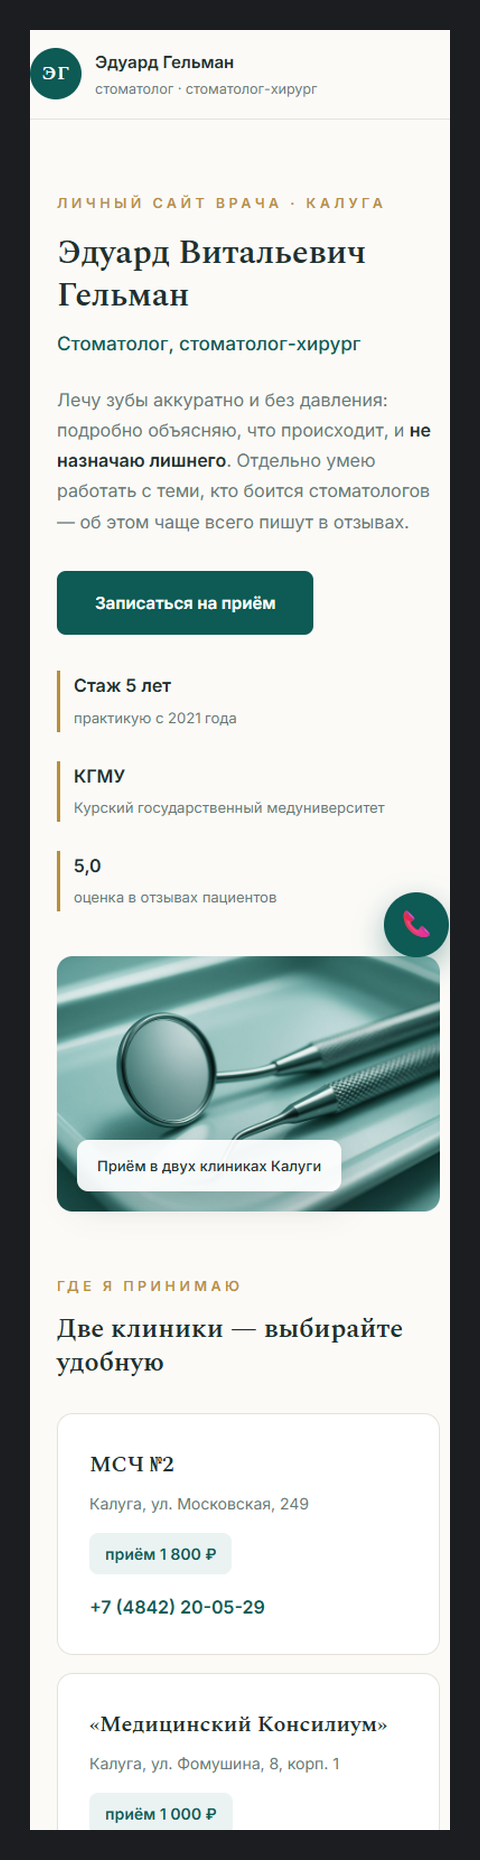
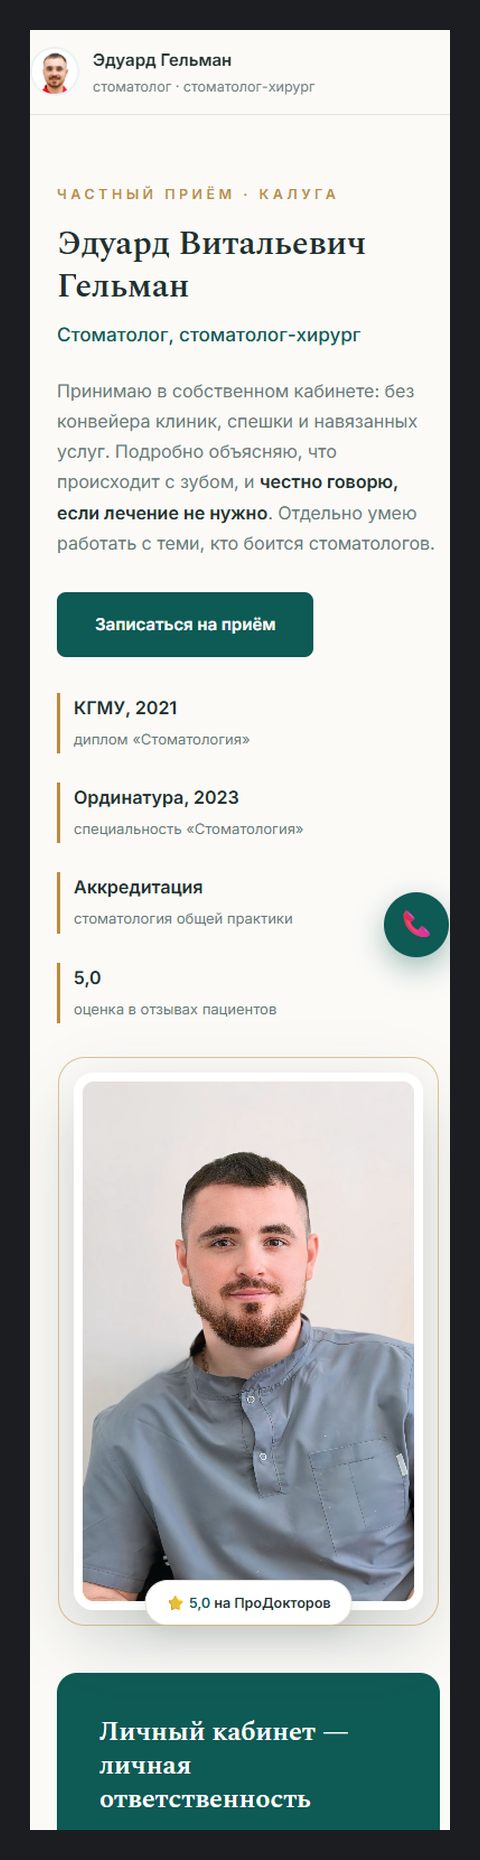
Гельман: реальные фото (ПроДокторов + мсч2.рф), частный кабинет, прайс, образование с номером диплома, номер клиники убран

diff --git a/demos/gelman/index.html b/demos/gelman/index.html
@@ -5,7 +5,7 @@
 <meta name="viewport" content="width=device-width, initial-scale=1.0">
 <meta name="robots" content="noindex, nofollow">
 <title>Эдуард Гельман — стоматолог, стоматолог-хирург · Калуга</title>
-<meta name="description" content="Эдуард Витальевич Гельман — стоматолог, стоматолог-хирург в Калуге. Приём в МСЧ №2 и клинике «Медицинский Консилиум». Запись по телефону.">
+<meta name="description" content="Эдуард Витальевич Гельман — стоматолог, стоматолог-хирург в Калуге. Частный приём, честные цены, работа с тревожными пациентами.">
 <link rel="preconnect" href="https://fonts.googleapis.com">
 <link rel="preconnect" href="https://fonts.gstatic.com" crossorigin>
 <link href="https://fonts.googleapis.com/css2?family=Spectral:ital,wght@0,400;0,500;0,600;1,400&family=Inter:wght@400;500;600&display=swap" rel="stylesheet">
@@ -18,22 +18,21 @@
 html{scroll-behavior:smooth}
 body{font-family:'Inter',system-ui,sans-serif;background:var(--paperw);color:var(--ink);line-height:1.7}
 h1,h2,h3,.serif{font-family:'Spectral',Georgia,serif;line-height:1.25}
-.wrap{max-width:920px;margin:0 auto;padding:0 24px}
+.wrap{max-width:940px;margin:0 auto;padding:0 24px}
 
-header{border-bottom:1px solid var(--hair)}
-.hrow{display:flex;align-items:center;justify-content:space-between;gap:12px;padding:16px 0}
-.mono{width:46px;height:46px;border-radius:50%;background:var(--teald);color:#fff;display:flex;align-items:center;
-  justify-content:center;font-family:'Spectral',serif;font-weight:600;font-size:18px;letter-spacing:.04em}
+header{border-bottom:1px solid var(--hair);position:sticky;top:0;background:rgba(251,250,247,.94);backdrop-filter:blur(8px);z-index:50}
+.hrow{display:flex;align-items:center;justify-content:space-between;gap:12px;padding:14px 0}
+.hleft{display:flex;align-items:center;gap:12px;text-decoration:none;color:var(--ink)}
+.hava{width:44px;height:44px;border-radius:50%;object-fit:cover;border:2px solid var(--teal-l)}
 .hname{font-weight:600;font-size:15px}
 .hname small{display:block;color:var(--muted);font-weight:400;font-size:12.5px}
-.hleft{display:flex;align-items:center;gap:12px;text-decoration:none;color:var(--ink)}
 .htel{color:var(--teald);text-decoration:none;font-weight:600;font-size:14.5px}
 .htel:hover{text-decoration:underline}
 
-/* hero: визитка */
-.hero{padding:64px 0 56px}
-.hero .grid{display:grid;grid-template-columns:1fr;gap:40px;align-items:center}
-@media(min-width:880px){.hero .grid{grid-template-columns:1.1fr .9fr}}
+/* hero с настоящим портретом */
+.hero{padding:60px 0 56px}
+.hero .grid{display:grid;grid-template-columns:1fr;gap:44px;align-items:center}
+@media(min-width:860px){.hero .grid{grid-template-columns:1.15fr .85fr}}
 .hero .k{color:var(--gold);font-size:12.5px;font-weight:600;letter-spacing:.28em;text-transform:uppercase;margin-bottom:16px}
 .hero h1{font-size:clamp(30px,4.6vw,48px);font-weight:600}
 .hero .spec{margin:10px 0 22px;font-size:17px;color:var(--teald);font-weight:500}
@@ -46,50 +45,65 @@ header{border-bottom:1px solid var(--hair)}
 .creds div{border-left:3px solid var(--gold);padding-left:12px}
 .creds b{font-size:16px;display:block}
 .creds span{color:var(--muted);font-size:13px}
-.hero .ph{position:relative}
-.hero .ph img{width:100%;height:auto;display:block;border-radius:14px}
-.hero .ph .tag{position:absolute;left:18px;bottom:18px;background:rgba(255,255,255,.92);border-radius:10px;
-  padding:12px 18px;font-size:13px;font-weight:500;box-shadow:0 10px 30px rgba(32,48,46,.2)}
+.portrait{justify-self:center;position:relative}
+.portrait img{width:min(340px,80vw);height:auto;max-height:480px;object-fit:cover;object-position:top;
+  border-radius:18px;display:block;border:8px solid #fff;box-shadow:0 24px 60px rgba(32,48,46,.22)}
+.portrait::after{content:"";position:absolute;inset:-14px;border:1px solid var(--gold);border-radius:24px;opacity:.5}
+.portrait .pd{position:absolute;left:50%;bottom:-14px;transform:translateX(-50%);background:var(--card);
+  border:1px solid var(--hair);border-radius:999px;padding:9px 18px;font-size:12.5px;font-weight:600;white-space:nowrap;
+  box-shadow:0 8px 22px rgba(32,48,46,.12)}
+.portrait .pd b{color:var(--teald)}
 
-section{padding:64px 0}
+section{padding:60px 0}
 .k2{color:var(--gold);font-size:12.5px;font-weight:600;letter-spacing:.28em;text-transform:uppercase;margin-bottom:12px}
-h2{font-size:clamp(24px,3.4vw,34px);font-weight:600;margin-bottom:30px}
+h2{font-size:clamp(24px,3.4vw,34px);font-weight:600;margin-bottom:28px}
 
-/* два места приёма */
-.places{display:grid;grid-template-columns:1fr;gap:16px}
-@media(min-width:760px){.places{grid-template-columns:1fr 1fr}}
-.place{background:var(--card);border:1px solid var(--hair);border-radius:14px;padding:28px}
-.place .pn{font-family:'Spectral',serif;font-size:20px;font-weight:600;margin-bottom:6px}
-.place .addr{color:var(--muted);font-size:14px;margin-bottom:14px}
-.place .price{display:inline-block;background:var(--teal-l);color:var(--teald);font-weight:600;font-size:14px;
-  border-radius:8px;padding:7px 14px;margin-bottom:16px}
-.place a.pt{display:block;color:var(--teald);text-decoration:none;font-weight:600;font-size:16px}
-.place a.pt:hover{text-decoration:underline}
+/* частный приём */
+.private{background:var(--teald);color:#fff;border-radius:18px;padding:38px;display:grid;
+  grid-template-columns:1fr;gap:24px;align-items:center}
+@media(min-width:820px){.private{grid-template-columns:1.2fr .8fr}}
+.private h2{color:#fff;margin-bottom:10px}
+.private p{color:#B7D3D1;font-size:15px;max-width:52ch}
+.private .right{text-align:center}
+.private .tel{font-family:'Spectral',serif;font-size:clamp(24px,3.8vw,32px);color:#fff;text-decoration:none;font-weight:600}
+.private .tel:hover{text-decoration:underline}
+.private small{display:block;margin-top:10px;color:#8FB5B2;font-size:12.5px}
+
+/* прайс-лист */
+.price-tbl{background:var(--card);border:1px solid var(--hair);border-radius:14px;overflow:hidden}
+.price-tbl table{width:100%;border-collapse:collapse;font-size:15px}
+.price-tbl th{font-family:'Spectral',serif;font-weight:600;text-align:left;padding:16px 24px;background:var(--teal-l);
+  color:var(--teald);font-size:14.5px}
+.price-tbl td{padding:14px 24px;border-top:1px solid var(--hair);vertical-align:top}
+.price-tbl td small{display:block;color:var(--muted);font-size:13px;margin-top:2px}
+.price-tbl td.pr{font-weight:600;white-space:nowrap;text-align:right;color:var(--teald)}
+.price-note{font-size:13px;color:var(--muted);margin-top:14px;max-width:66ch}
+
+/* фото-ряд: кабинет, инструменты, результат */
+.gal{display:grid;grid-template-columns:1fr;gap:14px}
+@media(min-width:760px){.gal{grid-template-columns:1fr 1fr 1fr}}
+.gal figure{position:relative;border-radius:14px;overflow:hidden}
+.gal img{width:100%;height:230px;object-fit:cover;display:block;transition:transform .5s var(--ease)}
+.gal figure:hover img{transform:scale(1.04)}
+.gal figcaption{position:absolute;left:0;right:0;bottom:0;background:linear-gradient(transparent,rgba(14,32,30,.85));
+  color:#fff;font-size:13px;font-weight:500;padding:26px 16px 12px}
 
 /* чем помогаю */
-.helps{display:grid;grid-template-columns:1fr;gap:0;border-top:1px solid var(--hair)}
+.helps{border-top:1px solid var(--hair)}
 .help{display:grid;grid-template-columns:44px 1fr;gap:16px;padding:20px 0;border-bottom:1px solid var(--hair)}
 .help .ico{width:38px;height:38px;border-radius:10px;background:var(--teal-l);color:var(--teald);display:flex;
   align-items:center;justify-content:center;font-size:18px}
 .help b{font-size:16px;display:block}
 .help p{color:var(--muted);font-size:14px}
 
-/* отзывы с ПроДокторов */
-.pd{background:var(--card);border:1px solid var(--hair);border-radius:14px;padding:30px;margin-bottom:14px}
-.pd p{font-family:'Spectral',serif;font-size:16.5px;font-style:italic}
-.pd cite{display:block;margin-top:12px;font-style:normal;color:var(--muted);font-size:13px}
+/* отзывы */
+.pd-rev{background:var(--card);border:1px solid var(--hair);border-radius:14px;padding:28px;margin-bottom:14px}
+.pd-rev p{font-family:'Spectral',serif;font-size:16.5px;font-style:italic}
+.pd-rev cite{display:block;margin-top:12px;font-style:normal;color:var(--muted);font-size:13px}
 .src{font-size:14px;color:var(--muted);margin-top:16px}
 .src a{color:var(--teald)}
 
-/* финал */
-.final{background:var(--teald);color:#fff;text-align:center;padding:70px 0}
-.final h2{color:#fff}
-.final p{color:#B7D3D1;max-width:48ch;margin:0 auto 26px}
-.final .tel{font-family:'Spectral',serif;font-size:clamp(26px,4.6vw,40px);color:#fff;text-decoration:none;font-weight:600}
-.final .tel:hover{text-decoration:underline}
-.final small{display:block;margin-top:14px;color:#8FB5B2;font-size:13px}
-
-footer{color:var(--muted);padding:26px 0;font-size:12.5px}
+footer{color:var(--muted);padding:26px 0;font-size:12.5px;border-top:1px solid var(--hair)}
 footer .wrap{display:flex;flex-wrap:wrap;gap:10px;justify-content:space-between;align-items:center}
 .demo-badge{border:1px dashed var(--hair);border-radius:8px;padding:5px 12px;white-space:nowrap}
 .fab{display:none;position:fixed;right:16px;bottom:16px;z-index:60;background:var(--teald);color:#fff;
@@ -105,51 +119,80 @@ a:focus-visible,.btn:focus-visible{outline:3px solid var(--gold);outline-offset:
 <body>
 
 <header><div class="wrap hrow">
-  <a class="hleft" href="#"><span class="mono">ЭГ</span>
+  <a class="hleft" href="#"><img class="hava" src="assets/portrait_sq.jpg" alt="Эдуард Гельман">
     <span class="hname">Эдуард Гельман<small>стоматолог · стоматолог-хирург</small></span></a>
-  <a class="htel" href="tel:+74842200529">запись: +7 (4842) 20-05-29</a>
+  <a class="htel" href="#contact">приём по записи</a>
 </div></header>
 
 <section class="hero">
   <div class="wrap grid">
     <div>
-      <div class="k">Личный сайт врача · Калуга</div>
+      <div class="k">Частный приём · Калуга</div>
       <h1>Эдуард Витальевич Гельман</h1>
       <div class="spec">Стоматолог, стоматолог-хирург</div>
-      <p class="sub">Лечу зубы аккуратно и без давления: подробно объясняю, что происходит,
-      и <b>не назначаю лишнего</b>. Отдельно умею работать с теми, кто боится стоматологов —
-      об этом чаще всего пишут в отзывах.</p>
-      <a class="btn" href="tel:+74842200529">Записаться на приём</a>
+      <p class="sub">Принимаю в собственном кабинете: без конвейера клиник, спешки и навязанных услуг.
+      Подробно объясняю, что происходит с зубом, и <b>честно говорю, если лечение не нужно</b>.
+      Отдельно умею работать с теми, кто боится стоматологов.</p>
+      <a class="btn" href="#contact">Записаться на приём</a>
       <div class="creds">
-        <div><b>Стаж 5 лет</b><span>практикую с 2021 года</span></div>
-        <div><b>КГМУ</b><span>Курский государственный медуниверситет</span></div>
+        <div><b>КГМУ, 2021</b><span>диплом «Стоматология»</span></div>
+        <div><b>Ординатура, 2023</b><span>специальность «Стоматология»</span></div>
+        <div><b>Аккредитация</b><span>стоматология общей практики</span></div>
         <div><b>5,0</b><span>оценка в отзывах пациентов</span></div>
       </div>
     </div>
-    <div class="ph reveal on">
-      <img src="assets/hero.jpg" alt="Стоматологические инструменты" width="1536" height="1024">
-      <div class="tag">Приём в двух клиниках Калуги</div>
+    <div class="portrait reveal on">
+      <img src="assets/portrait2.jpg" alt="Эдуард Витальевич Гельман, стоматолог" width="1365" height="2428">
+      <span class="pd">⭐ <b>5,0</b> на ПроДокторов</span>
     </div>
   </div>
 </section>
 
-<section id="places" style="padding-top:0">
+<section style="padding-top:0">
   <div class="wrap">
-    <div class="k2 reveal">Где я принимаю</div>
-    <h2 class="reveal">Две клиники — выбирайте удобную</h2>
-    <div class="places">
-      <div class="place reveal">
-        <div class="pn">МСЧ №2</div>
-        <div class="addr">Калуга, ул. Московская, 249</div>
-        <span class="price">приём 1 800 ₽</span>
-        <a class="pt" href="tel:+74842200529">+7 (4842) 20-05-29</a>
+    <div class="private reveal" id="contact">
+      <div>
+        <h2 class="serif">Личный кабинет — личная ответственность</h2>
+        <p>У частного приёма простое преимущество: вы лечитесь у врача, чьё имя написано на двери.
+        Никто не торопит, план лечения не «спускает администратор», а результат — моя репутация.</p>
       </div>
-      <div class="place reveal">
-        <div class="pn">«Медицинский Консилиум»</div>
-        <div class="addr">Калуга, ул. Фомушина, 8, корп. 1</div>
-        <span class="price">приём 1 000 ₽</span>
-        <a class="pt" href="tel:+74842218122">+7 (4842) 21-81-22</a>
+      <div class="right">
+        <span class="tel">+7 (9__) ___-__-__</span>
+        <small>здесь будет ваш личный номер для записи · адрес кабинета — при записи</small>
       </div>
+    </div>
+  </div>
+</section>
+
+<section id="price" style="padding-top:0">
+  <div class="wrap">
+    <div class="k2 reveal">Прайс-лист</div>
+    <h2 class="reveal">Цены на приём и лечение</h2>
+    <div class="price-tbl reveal">
+      <table>
+        <tr><th>Услуга</th><th style="text-align:right">Стоимость</th></tr>
+        <tr><td>Консультация и осмотр<small>план лечения и честный прогноз — с этого начинаем всегда</small></td><td class="pr">500 ₽</td></tr>
+        <tr><td>Лечение кариеса<small>анестезия, пломба, тщательная полировка</small></td><td class="pr">от 3 500 ₽</td></tr>
+        <tr><td>Лечение пульпита<small>каналы под контролем, без боли</small></td><td class="pr">от 6 500 ₽</td></tr>
+        <tr><td>Профессиональная гигиена<small>чистка и полировка, рекомендации по уходу</small></td><td class="pr">от 3 000 ₽</td></tr>
+        <tr><td>Художественная реставрация<small>восстановление формы и цвета зуба</small></td><td class="pr">от 4 500 ₽</td></tr>
+        <tr><td>Удаление зуба<small>бережно, с контролем заживления</small></td><td class="pr">от 2 500 ₽</td></tr>
+        <tr><td>Сложное удаление<small>включая зубы мудрости</small></td><td class="pr">от 5 000 ₽</td></tr>
+      </table>
+    </div>
+    <p class="price-note reveal">Точная стоимость — после осмотра: называю цену до начала лечения, и она не меняется в процессе.
+    Оплата за визит, без скрытых позиций.</p>
+  </div>
+</section>
+
+<section style="padding-top:0">
+  <div class="wrap">
+    <div class="k2 reveal">Кабинет</div>
+    <h2 class="reveal">Где и как проходит приём</h2>
+    <div class="gal reveal">
+      <figure><img src="assets/cabinet.jpg" alt="Стоматологический кабинет" width="1536" height="1024"><figcaption>Кабинет: современная установка, стерильность</figcaption></figure>
+      <figure><img src="assets/hero.jpg" alt="Стерильные инструменты" width="1536" height="1024"><figcaption>Инструменты: одноразовое и стерильное</figcaption></figure>
+      <figure><img src="assets/smile.jpg" alt="Здоровая улыбка" width="1536" height="1024"><figcaption>Результат: здоровые зубы без страха</figcaption></figure>
     </div>
   </div>
 </section>
@@ -169,14 +212,29 @@ a:focus-visible,.btn:focus-visible{outline:3px solid var(--gold);outline-offset:
 
 <section style="padding-top:0">
   <div class="wrap">
+    <div class="k2 reveal">Документы</div>
+    <h2 class="reveal">Образование и аккредитация</h2>
+    <div class="price-tbl reveal">
+      <table>
+        <tr><td>Высшее образование<small>ФГБОУ ВО «Курский государственный медицинский университет» Минздрава России</small></td>
+            <td class="pr">диплом 02.07.2021<br><small style="text-align:right">№ 104635/0000074 · «Стоматология»</small></td></tr>
+        <tr><td>Ординатура<small>специальность «Стоматология»</small></td><td class="pr">2023</td></tr>
+        <tr><td>Аккредитация специалиста<small>«Стоматология общей практики»</small></td><td class="pr">23.07.2021</td></tr>
+      </table>
+    </div>
+  </div>
+</section>
+
+<section style="padding-top:0">
+  <div class="wrap">
     <div class="k2 reveal">Отзывы</div>
     <h2 class="reveal">Что пишут пациенты</h2>
-    <div class="pd reveal">
+    <div class="pd-rev reveal">
       <p>«Высокий профессионализм и доброжелательность, особенно отмечаю умение работать
       с тревожными пациентами (я из таких). Хожу на лечение больше года только к этому врачу».</p>
       <cite>— пациентка, ПроДокторов, апрель 2026</cite>
     </div>
-    <div class="pd reveal">
+    <div class="pd-rev reveal">
       <p>«Пролечено уже более 8 зубов. Настоящий профессионал: скрупулёзно подходит к каждому зубу,
       не навязывает услуг, честно говорит, если лечение не нужно».</p>
       <cite>— пациентка, ПроДокторов, апрель 2026</cite>
@@ -185,21 +243,12 @@ a:focus-visible,.btn:focus-visible{outline:3px solid var(--gold);outline-offset:
   </div>
 </section>
 
-<section class="final" id="contact" style="padding:70px 0">
-  <div class="wrap">
-    <h2 class="reveal">Приходите — разберёмся с зубами спокойно</h2>
-    <p class="reveal">Позвоните в удобную клинику и скажите, что записываетесь к Гельману Эдуарду Витальевичу.</p>
-    <a class="tel reveal" href="tel:+74842200529">+7 (4842) 20-05-29</a>
-    <small class="reveal">МСЧ №2, Московская 249 · или «Медицинский Консилиум», Фомушина 8к1: +7 (4842) 21-81-22</small>
-  </div>
-</section>
-
 <footer><div class="wrap">
-  <span>© 2026 Гельман Э.В., стоматолог · Калуга. Имеются противопоказания, необходима консультация специалиста.</span>
+  <span>© 2026 Гельман Э.В., стоматолог · Калуга. Имеются противопоказания, необходима консультация специалиста. Цены ориентировочные.</span>
   <span class="demo-badge">Демонстрационный макет</span>
 </div></footer>
 
-<a class="fab" href="tel:+74842200529" aria-label="Позвонить">📞</a>
+<a class="fab" href="#contact" aria-label="Записаться">📞</a>
 
 <script>
 const els = document.querySelectorAll('.reveal');
